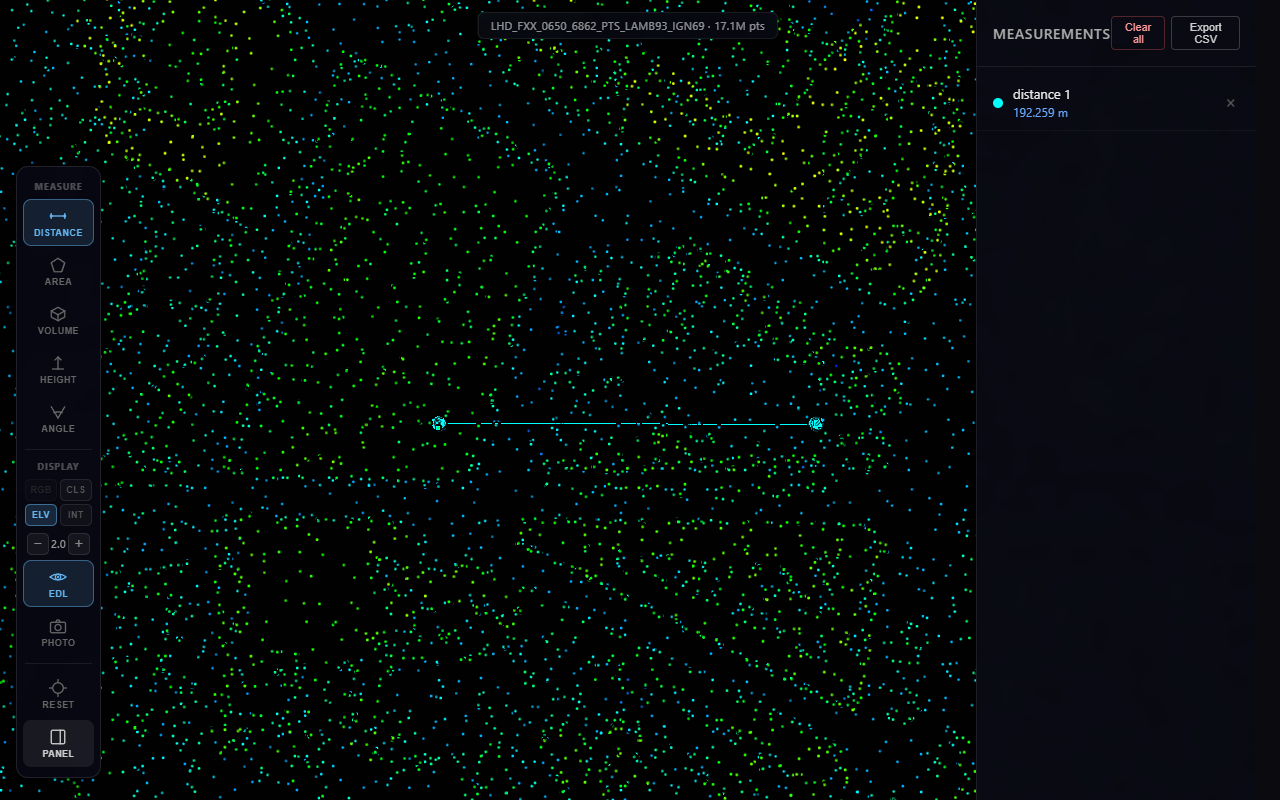
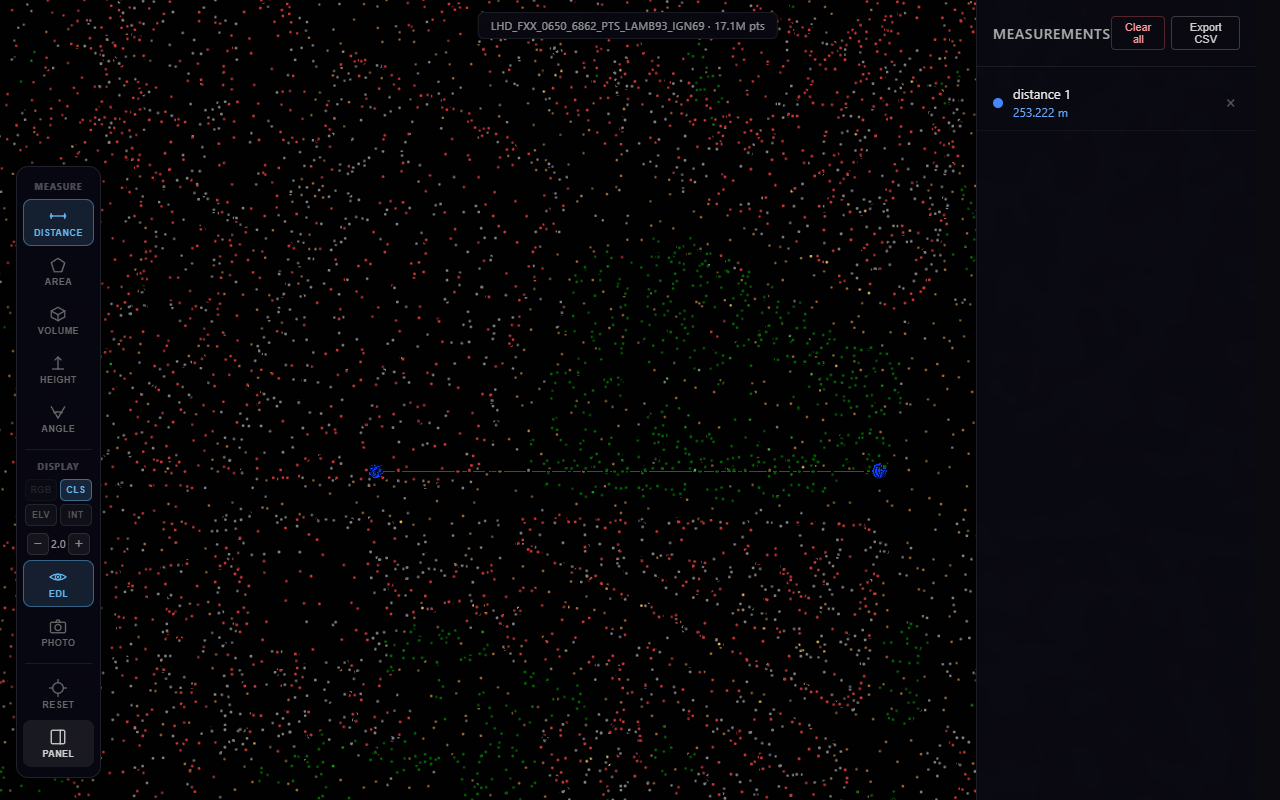
Add separate measurement tool screenshots (distance/area/volume/height); fix Clear-all leaving stale 3D objects

diff --git a/packages/measurements/src/MeasurementTool.ts b/packages/measurements/src/MeasurementTool.ts
@@ -44,6 +44,15 @@ export class MeasurementTool {
     this.scene.add(this.lineGroup);
 
     this.domElement.addEventListener('click', this.onClick);
+
+    // Sync 3-D objects with the store — remove orphaned markers/lines when
+    // the panel's "Clear all" or "×" buttons delete store entries.
+    store.subscribe((measurements) => {
+      const liveIds = new Set(measurements.map((m) => m.id));
+      for (const id of [...this.markers.keys()]) {
+        if (!liveIds.has(id)) this._remove3D(id);
+      }
+    });
   }
 
   /** Start a new measurement of the given type. */
@@ -63,8 +72,8 @@ export class MeasurementTool {
     this.domElement.style.cursor = '';
   }
 
-  /** Remove all Three.js objects for a measurement. */
-  removeMeasurement(id: string): void {
+  /** Remove all Three.js objects for a measurement (without touching the store). */
+  private _remove3D(id: string): void {
     const existingMarkers = this.markers.get(id);
     if (existingMarkers) {
       for (const m of existingMarkers) {
@@ -79,6 +88,11 @@ export class MeasurementTool {
       line.geometry.dispose();
       this.lines.delete(id);
     }
+  }
+
+  /** Remove all Three.js objects for a measurement AND delete it from the store. */
+  removeMeasurement(id: string): void {
+    this._remove3D(id);
     this.store.remove(id);
   }
 

diff --git a/README.md b/README.md
@@ -36,9 +36,13 @@ A WebGL2-accelerated drone LiDAR point cloud viewer built as a pnpm monorepo.
 
 Measure distances, areas, volumes, heights and angles directly in the viewer. Results appear in the panel on the right with one-click CSV export.
 
-| Measurement tool active | Measurements panel |
+| Distance | Area |
 |---|---|
-| ![Measurement tool](docs/screenshots/07-measure-distance.png) | ![Measurements panel](docs/screenshots/09-measurements-panel.png) |
+| ![Distance measurement](docs/screenshots/07-measure-distance.png) | ![Area measurement](docs/screenshots/10-measure-area.png) |
+
+| Volume | Height |
+|---|---|
+| ![Volume measurement](docs/screenshots/11-measure-volume.png) | ![Height measurement](docs/screenshots/12-measure-height.png) |
 
 ---
 